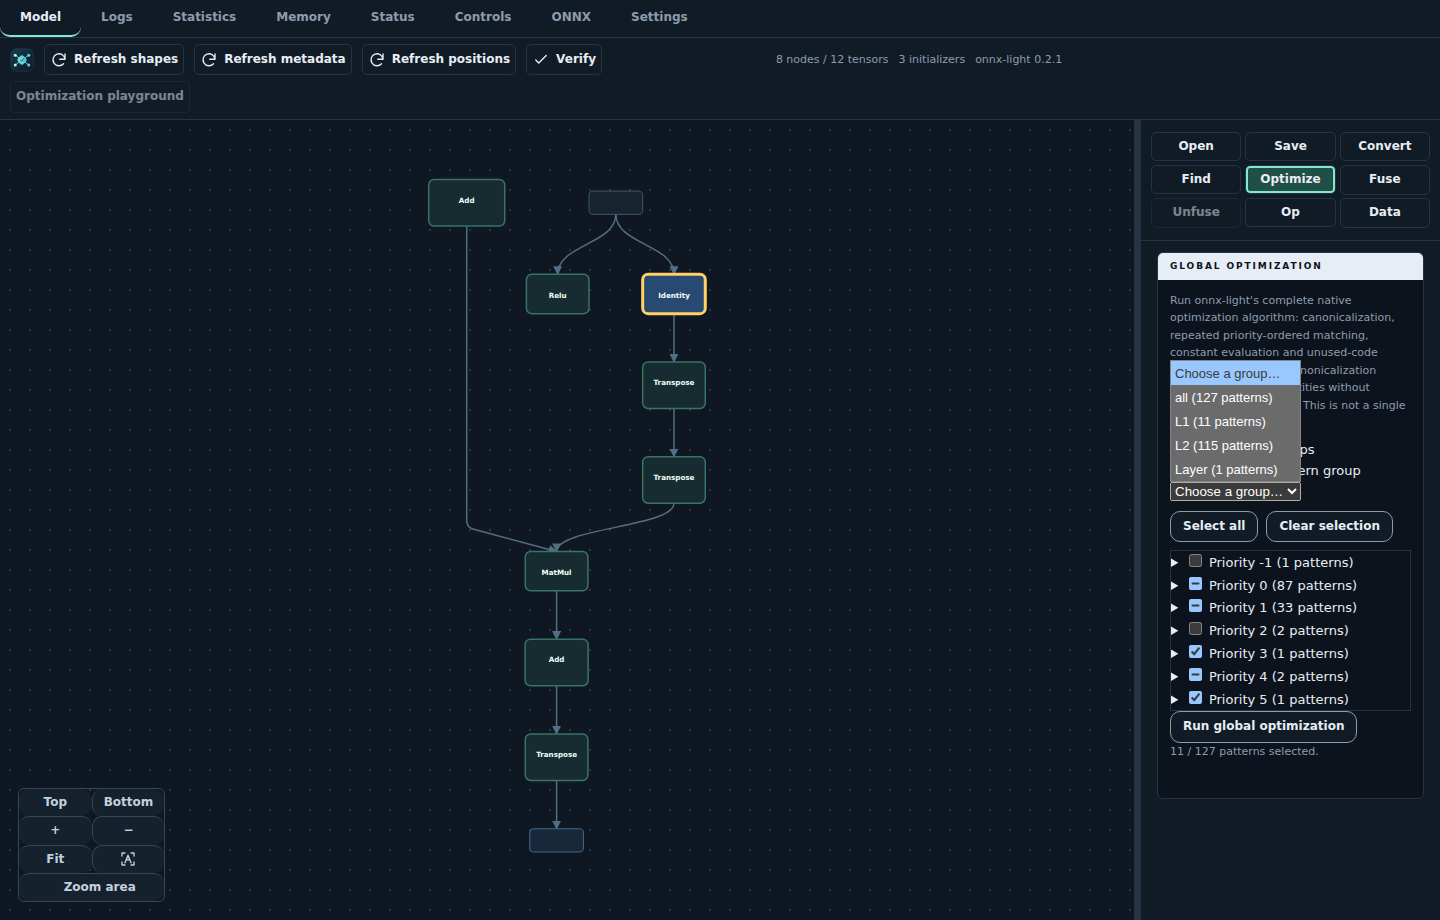
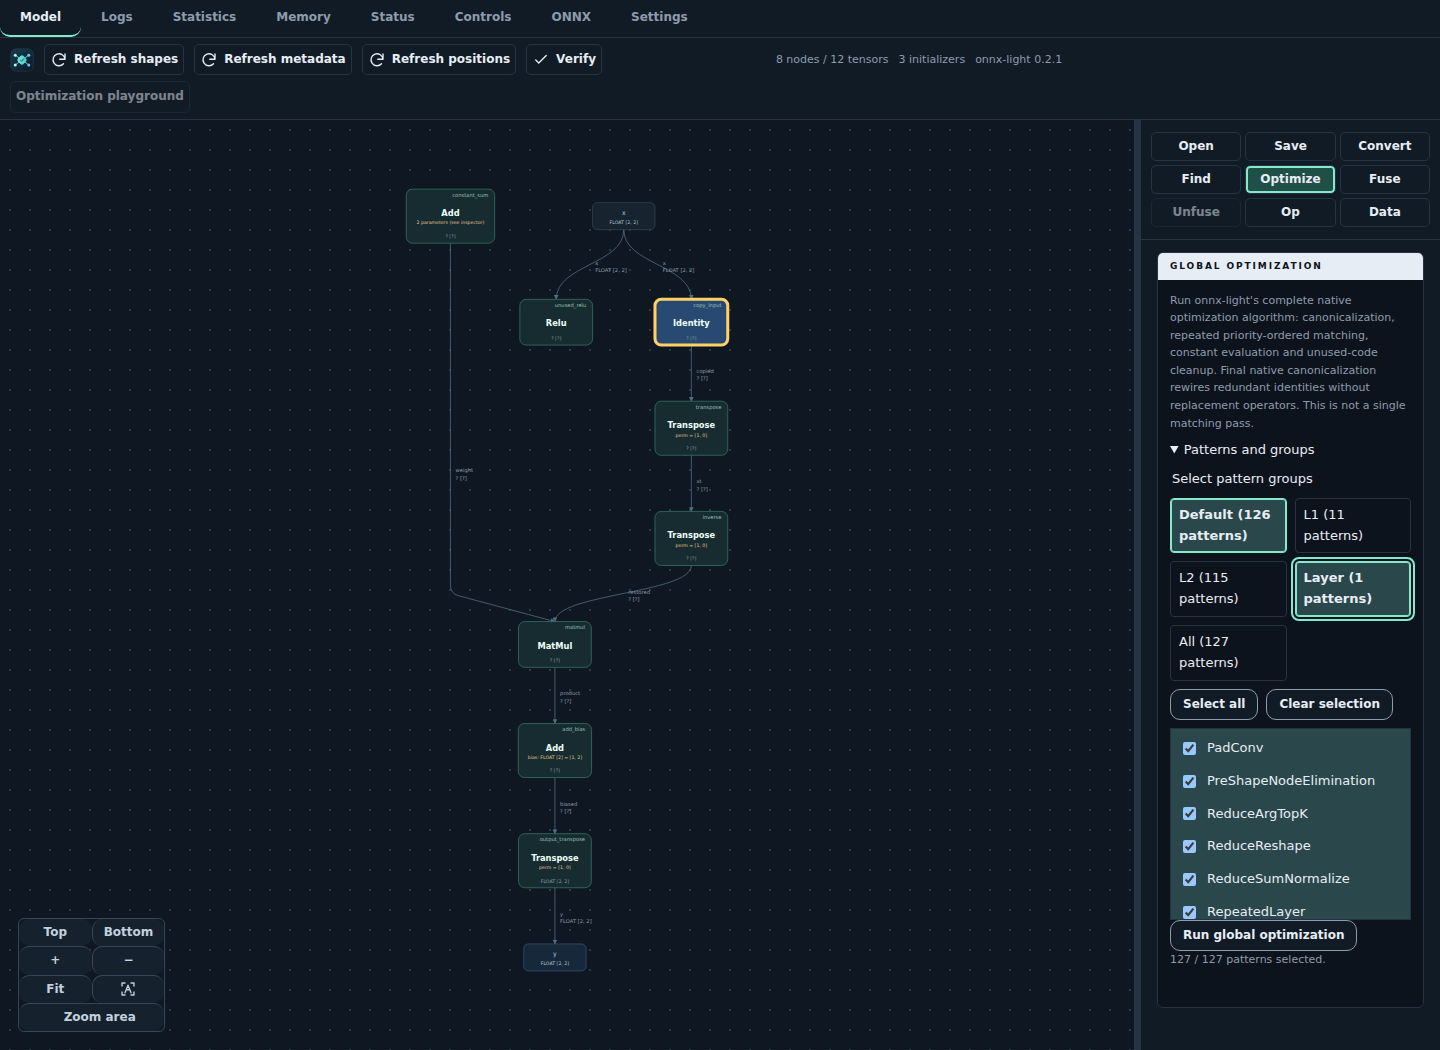
Use selectable group tiles with SDK default pattern selection

diff --git a/media/fusion-panel.js b/media/fusion-panel.js
@@ -305,7 +305,7 @@ function createFusionPanel({
     const patterns = byId("fusion-pattern");
     patterns.disabled = busy || !patterns.querySelector("input");
     byId("fusion-pattern-group").disabled =
-      patterns.disabled || byId("fusion-pattern-group").options.length <= 1;
+      patterns.disabled || !byId("fusion-pattern-group").querySelector("input");
     byId("select-patterns").disabled = patterns.disabled;
     byId("clear-patterns").disabled =
       busy || !patterns.querySelector("input:checked");
@@ -321,7 +321,7 @@ function createFusionPanel({
       busy || !canFuse() || !optimization.querySelector("input");
     byId("optimization-pattern-group").disabled =
       optimization.disabled ||
-      byId("optimization-pattern-group").options.length <= 1;
+      !byId("optimization-pattern-group").querySelector("input");
     byId("select-optimization-patterns").disabled = optimization.disabled;
     for (const id of ["clear-optimization-patterns", "run-optimization"])
       byId(id).disabled =
@@ -431,39 +431,67 @@ function createFusionPanel({
 
   function showPatternGroups(id, fieldsetId, patterns, changed) {
     const picker = byId(id);
-    picker.replaceChildren();
-    const placeholder = document.createElement("option");
-    placeholder.value = "";
-    placeholder.textContent = "Choose a group…";
-    picker.append(placeholder);
+    const legend = document.createElement("legend");
+    legend.textContent = "Select pattern groups";
+    picker.replaceChildren(legend);
+    const fieldset = byId(fieldsetId);
     const available = new Set(
-      [...byId(fieldsetId).querySelectorAll("input")].map(
-        (input) => input.value,
-      ),
+      [...fieldset.querySelectorAll("input")].map((input) => input.value),
     );
-    const groups = new Map();
+    const groups = new Map([["Default", new Set()]]);
     for (const pattern of patterns ?? []) {
       if (!available.has(pattern.name)) continue;
+      if (pattern.enabledByDefault) groups.get("Default").add(pattern.name);
       for (const name of pattern.groups ?? []) {
         if (!groups.has(name)) groups.set(name, new Set());
         groups.get(name).add(pattern.name);
       }
     }
-    for (const [name, members] of [...groups].sort(([a], [b]) =>
-      a.localeCompare(b),
-    )) {
-      const option = document.createElement("option");
-      option.value = name;
-      option.textContent = `${name} (${members.size} patterns)`;
-      picker.append(option);
+    const names = [...groups.keys()]
+      .filter((name) => name !== "Default" && name !== "all")
+      .sort();
+    for (const name of ["Default", ...names, "all"]) {
+      const members = groups.get(name);
+      if (!members?.size) continue;
+      const label = document.createElement("label");
+      const input = document.createElement("input");
+      input.type = "checkbox";
+      input.value = name;
+      label.append(
+        input,
+        document.createTextNode(
+          `${name === "all" ? "All" : name} (${members.size} patterns)`,
+        ),
+      );
+      picker.append(label);
     }
+    const sync = () => {
+      const selected = new Set(
+        [...fieldset.querySelectorAll("input:checked")]
+          .filter((input) => !input.hasAttribute("data-priority"))
+          .map((input) => input.value),
+      );
+      let matched = false;
+      for (const input of picker.querySelectorAll("input")) {
+        const members = groups.get(input.value);
+        input.checked =
+          !matched &&
+          members.size === selected.size &&
+          [...members].every((name) => selected.has(name));
+        matched ||= input.checked;
+      }
+    };
+    fieldset.onchange = sync;
+    sync();
     picker.onchange = () => {
-      const members = groups.get(picker.value);
-      if (!members) return;
-      for (const input of byId(fieldsetId).querySelectorAll("input"))
+      const members = new Set(
+        [...picker.querySelectorAll("input:checked")].flatMap((input) => [
+          ...groups.get(input.value),
+        ]),
+      );
+      for (const input of fieldset.querySelectorAll("input"))
         if (!input.hasAttribute("data-priority"))
           input.checked = members.has(input.value);
-      picker.value = "";
       changed();
     };
   }
@@ -678,7 +706,7 @@ function createFusionPanel({
         "input[data-pattern]",
       ))
         input.checked = checked;
-      updateOptimizationSelection();
+      byId("optimization-patterns").dispatchEvent(new Event("change"));
     });
   byId("run-optimization").addEventListener("click", () => {
     clearFusionPreview();
@@ -726,7 +754,7 @@ function createFusionPanel({
     byId(id).addEventListener("click", () => {
       for (const input of byId("fusion-pattern").querySelectorAll("input"))
         input.checked = checked;
-      changeFusionPatterns();
+      byId("fusion-pattern").dispatchEvent(new Event("change"));
     });
   byId("preview-fusion").addEventListener("click", previewFusion);
   byId("select-fusions").addEventListener("click", () => {

diff --git a/src/webview.ts b/src/webview.ts
@@ -277,7 +277,7 @@ export function webviewHtml(
             <p>Run onnx-light's complete native optimization algorithm: canonicalization, repeated priority-ordered matching, constant evaluation and unused-code cleanup. Final native canonicalization rewires redundant identities without replacement operators. This is not a single matching pass.</p>
             <details id="optimization-picker" class="fusion-picker" open>
               <summary>Patterns and groups</summary>
-              <label for="optimization-pattern-group">Select a native pattern group</label><select id="optimization-pattern-group" disabled></select>
+              <fieldset id="optimization-pattern-group" disabled aria-label="Native pattern groups"><legend>Select pattern groups</legend></fieldset>
               <div class="fusion-selection-controls"><button id="select-optimization-patterns" disabled>Select all</button><button id="clear-optimization-patterns" disabled>Clear selection</button></div>
               <fieldset id="optimization-patterns" disabled aria-label="Optimization patterns"></fieldset>
               <button id="run-optimization" disabled>Run global optimization</button>
@@ -302,7 +302,7 @@ export function webviewHtml(
             </details>
             <details class="fusion-picker" open>
               <summary>Native patterns</summary>
-              <label for="fusion-pattern-group">Select a native pattern group</label><select id="fusion-pattern-group" disabled></select>
+              <fieldset id="fusion-pattern-group" disabled aria-label="Native pattern groups"><legend>Select pattern groups</legend></fieldset>
               <div class="fusion-selection-controls"><button id="select-patterns" disabled>Select all</button><button id="clear-patterns" disabled>Clear selection</button></div>
               <fieldset id="fusion-pattern" disabled aria-label="Native patterns" aria-describedby="fusion-feedback"></fieldset>
               <button id="preview-fusion" disabled>Run Matching</button>

diff --git a/media/viewer.css b/media/viewer.css
@@ -1079,7 +1079,9 @@ button:disabled {
   overflow-wrap: anywhere;
 }
 #fusion-pattern label,
-#optimization-patterns label {
+#optimization-patterns label,
+#fusion-pattern-group label,
+#optimization-pattern-group label {
   display: flex;
   align-items: center;
   gap: 8px;
@@ -1087,13 +1089,57 @@ button:disabled {
   cursor: pointer;
 }
 #fusion-pattern label:has(input:checked),
-#optimization-patterns label:has(input:checked) {
+#optimization-patterns label:has(input:checked),
+#fusion-pattern-group label:has(input:checked),
+#optimization-pattern-group label:has(input:checked) {
   background: color-mix(
     in srgb,
     var(--vscode-list-activeSelectionBackground, var(--mint)) 22%,
     var(--panel)
   );
   color: var(--text);
+}
+#fusion-pattern-group,
+#optimization-pattern-group {
+  display: grid;
+  grid-template-columns: repeat(2, minmax(0, 1fr));
+  gap: 8px;
+  min-width: 0;
+  margin: 8px 0 0;
+  padding: 8px 0 0;
+  border: 0;
+}
+#fusion-pattern-group label,
+#optimization-pattern-group label {
+  position: relative;
+  min-width: 0;
+  border: 1px solid var(--border);
+  border-radius: 4px;
+  background: var(--bg);
+}
+#fusion-pattern-group input,
+#optimization-pattern-group input {
+  position: absolute;
+  width: 1px;
+  height: 1px;
+  overflow: hidden;
+  clip-path: inset(50%);
+}
+#fusion-pattern-group label:has(input:checked),
+#optimization-pattern-group label:has(input:checked) {
+  border-color: var(--mint);
+  box-shadow: inset 0 0 0 1px var(--mint);
+  font-weight: 600;
+}
+#fusion-pattern-group label:has(input:focus-visible),
+#optimization-pattern-group label:has(input:focus-visible) {
+  outline: 2px solid var(--vscode-focusBorder, var(--mint));
+  outline-offset: 2px;
+}
+#fusion-pattern-group:disabled label,
+#optimization-pattern-group:disabled label {
+  cursor: default;
+  opacity: 0.5;
 }
 .fusion-selection-controls {
   display: flex;

diff --git a/docs/features/fusion_patterns.rst b/docs/features/fusion_patterns.rst
@@ -14,11 +14,18 @@ patterns and clears the previous candidates and selection.
 Click a pattern again to uncheck it. **Select all** checks every pattern;
 **Clear selection** unchecks them all. No modifier key is needed.
 
-**Select a native pattern group** replaces the checked patterns with the members
-of an onnx-light 0.2.1 set: ``L1``, ``L2``, ``Layer`` or ``all``.
+**Select pattern groups** shows clickable rectangular tiles: click to select
+or deselect a group. Selected tiles have a highlighted border and bold text.
+It combines the selected groups without duplicating
+overlapping members. **Default** contains the SDK-default patterns, excluding
+``RepeatedLayer``; **All** includes opt-in patterns too.
+The other sets, ``L1``, ``L2`` and ``Layer``, come from onnx-light.
 In **Fuse**, only members with compatible anchors in the current graph are
-selected; global passes are not part of these sets. Individual checkboxes remain
-editable, and choosing a group does not run matching or change the model.
+selected; global passes are not part of these sets.
+Unchecking a group keeps members covered by another checked group.
+Individual checkboxes remain editable; a manual selection is shown as a single
+group only if it exactly matches that group. Choosing groups does not run
+matching or change the model.
 
 .. code-block:: text
 
@@ -88,16 +95,16 @@ Iterative optimization and global passes
 It opens the full native catalog, including patterns whose operators
 are not present yet. Select individual patterns, whole **Priority** groups,
 or **Select all**, then click **Run global optimization**.
-The native group selector also selects named sets across priorities.
+The group tiles combine named sets across priorities.
 Set membership and priorities come directly from onnx-light, not inferred categories.
 Initially, only SDK-default patterns are checked: ``RepeatedLayer`` is opt-in.
-Choose ``Layer``, ``all``, **Select all** or its individual checkbox to enable it.
+Choose ``Layer``, **All**, **Select all** or its individual checkbox to enable it.
 
 .. figure:: ../_static/feature-pattern-groups.png
-   :alt: Optimize panel showing the native all, L1, L2 and Layer group choices, with eleven L1 patterns selected.
+   :alt: Optimize panel showing Default and Layer tiles selected together, with RepeatedLayer enabled.
    :width: 100%
 
-   Select a named set, then refine individual patterns before running optimization.
+   Combine named sets, then refine individual patterns before running optimization.
 
 This runs onnx-light's complete native optimizer, not a single pattern batch:
 native canonicalization, repeated priority-ordered matching, evaluation of

diff --git a/docs/features.rst b/docs/features.rst
@@ -179,14 +179,15 @@ Native estimation, not model execution or measured RAM/GPU usage.
 Pattern groups
 ^^^^^^^^^^^^^^
 
-Select onnx-light's ``L1``, ``L2``, ``Layer`` or ``all`` pattern sets in **Fuse**
-or **Optimize**, then refine the individual checkboxes. Fuse selects only
-graph-applicable members; Optimize starts with SDK-default patterns and leaves
-``RepeatedLayer`` unchecked. See :doc:`features/fusion_patterns`.
-Choosing a group alone does not transform or save the model.
+Combine **Default**, ``L1``, ``L2``, ``Layer`` or **All** in **Fuse**
+or **Optimize**, even when their members overlap, then refine individual patterns.
+Fuse selects only graph-applicable members; Optimize starts with **Default**
+and leaves the opt-in ``RepeatedLayer`` unchecked. **All** includes it.
+See :doc:`features/fusion_patterns`.
+Choosing groups alone does not transform or save the model.
 
 .. figure:: _static/feature-pattern-groups.png
-   :alt: Native pattern group menu in Optimize, with the L1 selection reflected in priority checkboxes.
+   :alt: Optimize group tiles combining Default and Layer, including the opt-in RepeatedLayer pattern.
    :width: 100%
 
    Named pattern sets are separate from optimization priorities.
